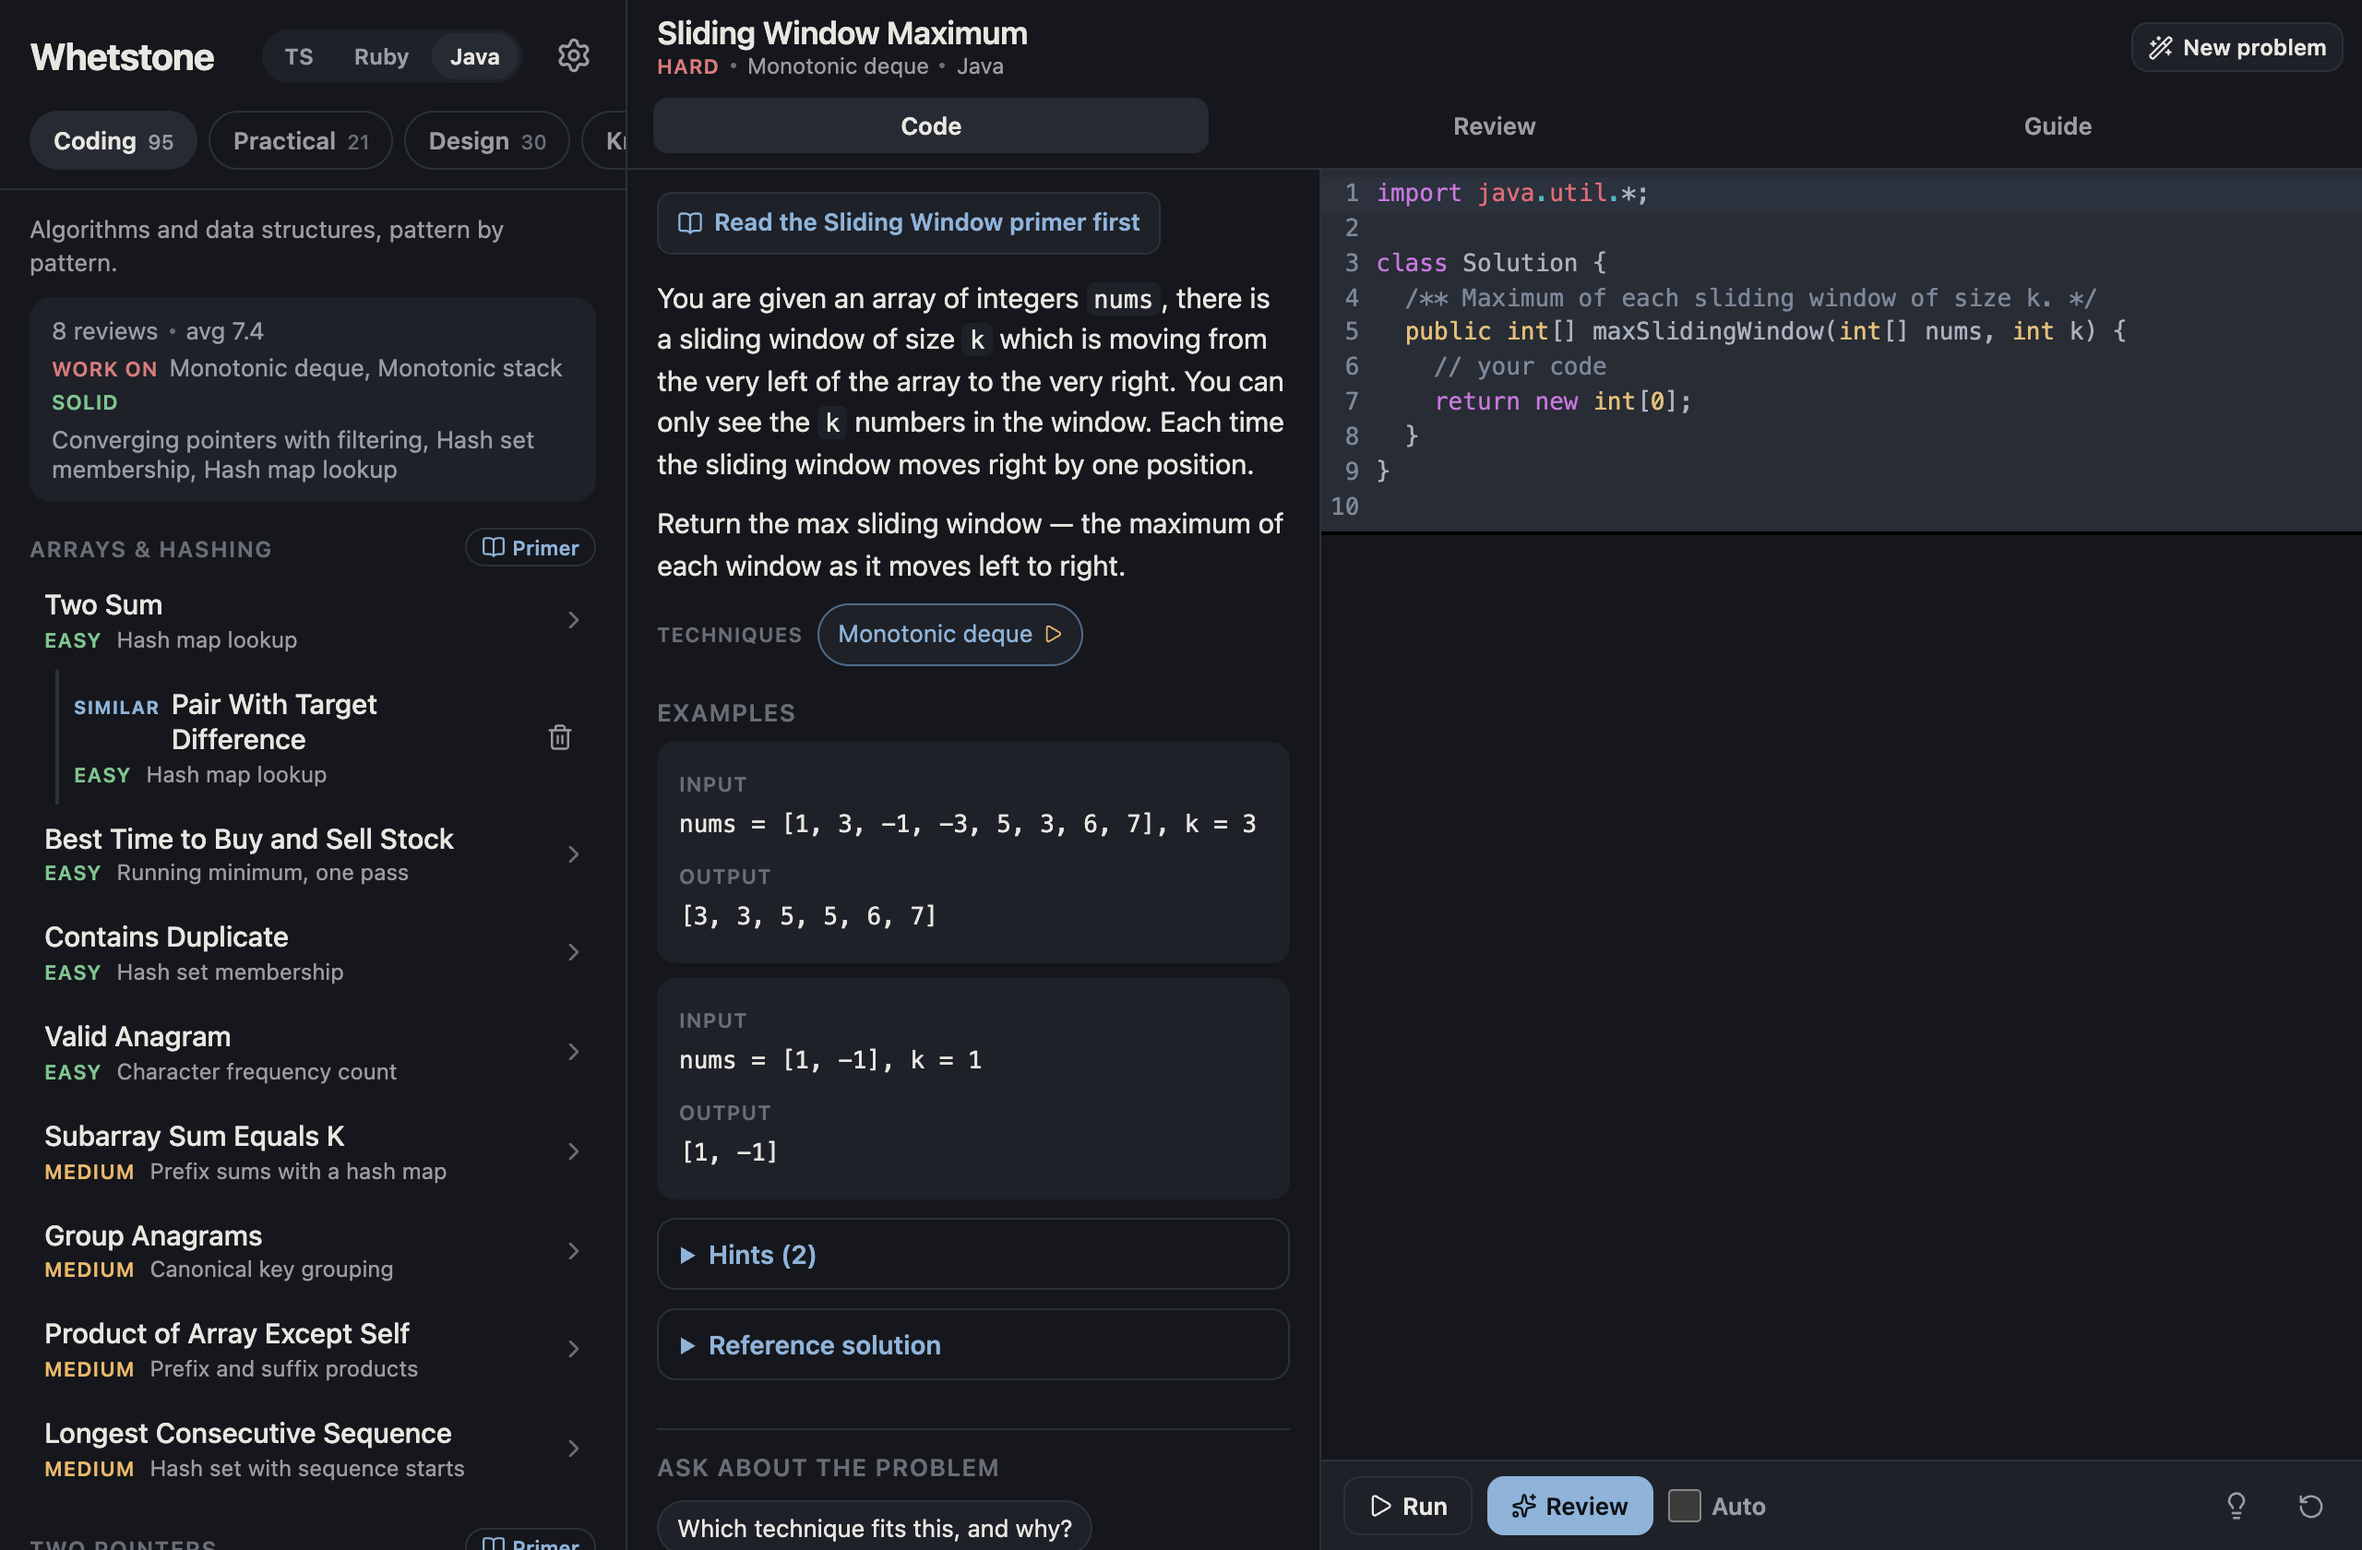
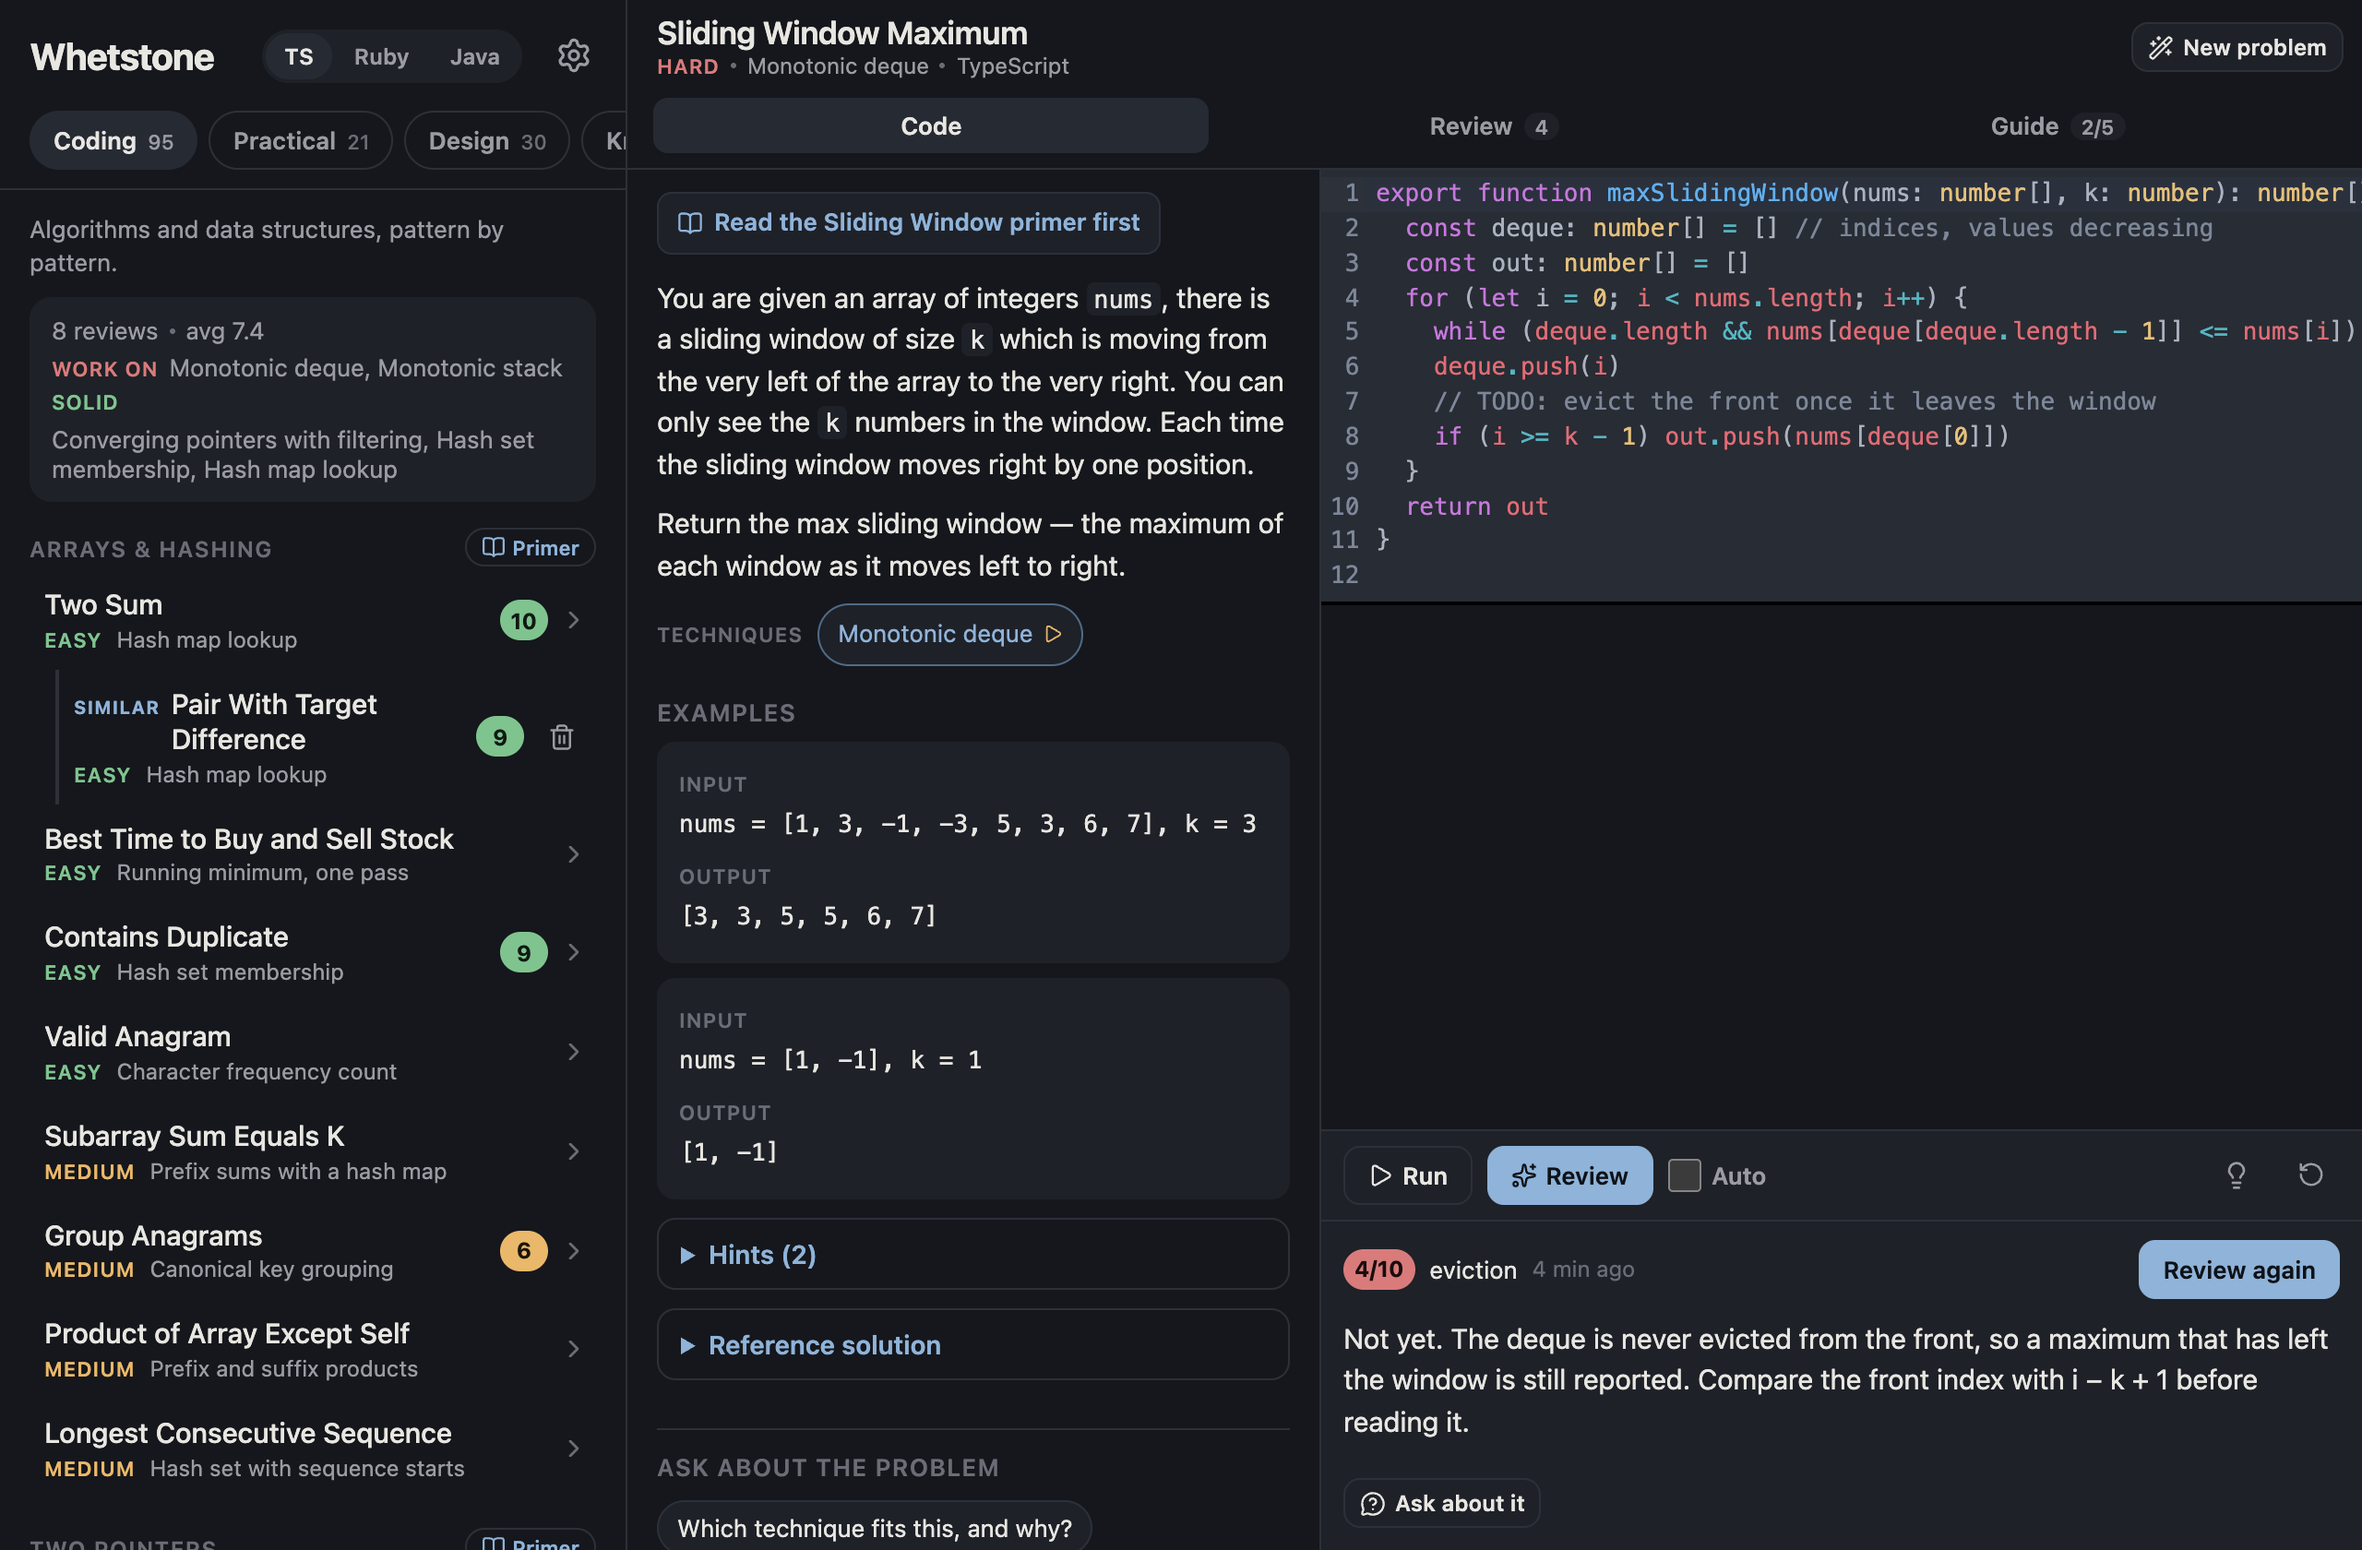
feat: the review under the editor in the wide layout

diff --git a/src/components/ProblemScreen.tsx b/src/components/ProblemScreen.tsx
@@ -1,5 +1,5 @@
 import { useCallback, useEffect, useMemo, useState } from 'react'
-import { ArrowLeft, Lightbulb, Play, RotateCcw, Sparkles, WandSparkles } from 'lucide-react'
+import { ArrowLeft, Lightbulb, MessageCircleQuestionMark, Play, RotateCcw, Sparkles, WandSparkles } from 'lucide-react'
 import GenerateSheet from './GenerateSheet.tsx'
 import { toast } from 'sonner'
 import CodeEditor from './CodeEditor.tsx'
@@ -185,6 +185,17 @@ export default function ProblemScreen({ problem, settings, wide, onBack, onAutoC
         </button>
       </div>
       {code && <RunPanel run={run} running={running} />}
+      {/* With room beside the problem, the review reads under the draft it is about; the thread stays on its tab. */}
+      {wide && (review.review || review.streaming) && (
+        <div className="work-review">
+          <ReviewPanel {...review} onStart={review.start} onCancel={review.cancel} canReview={canReview} />
+          {review.review && !review.streaming && (
+            <button className="btn small work-review-ask" onClick={() => setTab('review')}>
+              <MessageCircleQuestionMark size={14} /> Ask about it
+            </button>
+          )}
+        </div>
+      )}
     </div>
   )
 

diff --git a/src/App.css b/src/App.css
@@ -236,6 +236,10 @@ h1, h2, h3, h4 { margin: 0; font-weight: 600; letter-spacing: -0.01em; }
 .run-output summary { color: var(--dim); cursor: pointer; font-size: 12px; margin-top: 4px; }
 .run-output pre { font-size: 12px; white-space: pre-wrap; background: var(--raised); padding: 8px; border-radius: 8px; }
 
+/* The review under the editor, in the wide layout: its own scroll, never more than the editor's share. */
+.work-review { flex: 0 1 auto; max-height: 45%; overflow-y: auto; border-top: 1px solid var(--line); padding: 10px 12px 12px; background: var(--raised); }
+.work-review-ask { margin-top: 10px; }
+
 /* ====== review ====== */
 .review { display: flex; flex-direction: column; gap: 10px; }
 .review-head { display: flex; align-items: center; gap: 8px; flex-wrap: wrap; min-height: 32px; }

diff --git a/README.md b/README.md
@@ -13,7 +13,7 @@ the machine.
 
 <img src="docs/screenshots/desktop.png" alt="Desktop split view in Java" />
 
-**On a desktop.** List, statement and editor side by side, here in Java.
+**On a desktop.** List, statement and editor side by side, here in Java, with the latest review under the draft it is about.
 
 <img src="docs/screenshots/desktop-ruby.png" alt="Desktop split view in Ruby with all tests passing" />
 
